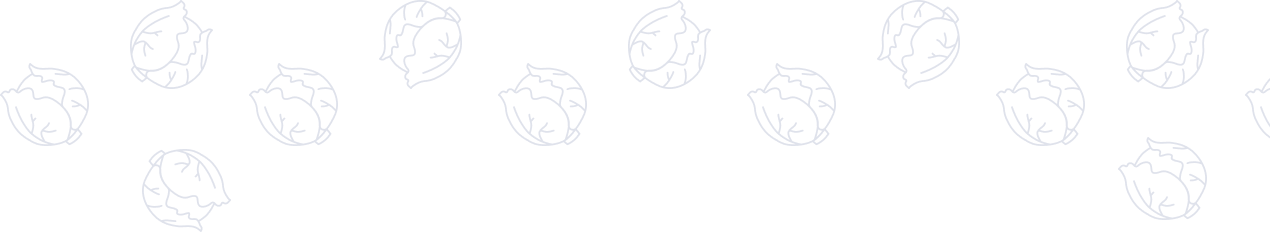
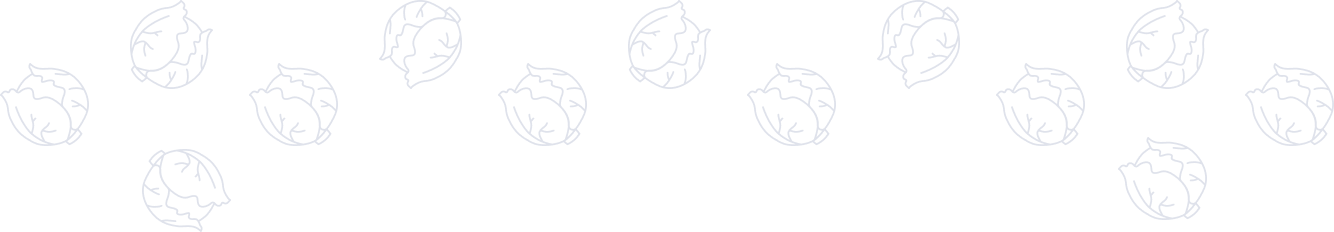
create page home and layout for all pages

diff --git a/src/styles/Background.styled.jsx b/src/styles/Background.styled.jsx
@@ -1,37 +1,53 @@
-import styled from 'styled-components';
+import { css, styled } from 'styled-components';
 import BgCabbage from '../images/home_bg.png';
 import CabbageUp from '../images/home_bg_mobile.png';
 import CabbageDown from '../images/single_cabbage.png';
 import DoubleCabbage from '../images/double_cabbage.png';
 
-export const Container = styled.main`
-  position: relative;
+import { above768px, above1280px } from './globalStyles';
+
+export const Container = styled.div`
+  position: absolute;
   overflow: hidden;
-  width: 100vw;
-  height: 100vh;
+  width: 100%;
+  height: 856px;
+  top: 0;
+  left: 0;
+  z-index: -99;
+  ${above768px(css`
+    height: 1024px;
+  `)}
+
+  ${above1280px(css`
+    height: 850px;
+  `)}
 `;
 export const UpCabbage = styled.div`
   background-image: url(${CabbageUp});
   position: absolute;
-  top: 15em;
-  right: -5%;
+  top: 160px;
+  right: -34px;
   width: 83px;
   height: 89px;
   background-repeat: no-repeat;
 
-  @media (min-width: 772px) {
+  ${above768px(css`
     width: 100%;
     height: 100%;
-    top: 7em;
+    top: 84px;
+    left: 10px;
     background-image: url(${BgCabbage});
-  }
-  @media (min-width: 1280px) {
-    left: 0;
-    right: 0;
+  `)}
+
+    ${above1280px(css`
+      top: 84.5px;
+      left: calc(100vw - 1270px);
+    `)}
   }
 `;
 export const DownCabbage = styled.div`
   background-image: url(${CabbageDown});
+  display: inline-block;
   position: absolute;
   bottom: 0;
   left: 3em;
@@ -40,13 +56,18 @@ export const DownCabbage = styled.div`
   background-repeat: no-repeat;
   z-index: 1;
 
-  @media (min-width: 772px) {
-    width: 100%;
+  ${above768px(css`
     height: 142px;
-    bottom: 4em;
-    left: 13%;
+    bottom: 56px;
+    left: 103px;
+    width: 183px;
     background-image: url(${DoubleCabbage});
-  }
+  `)}
+
+  ${above1280px(css`
+    left: 230px;
+    bottom: 50px;
+  `)}
 `;
 
 export const ImageWrapper = styled.div`
@@ -54,12 +75,12 @@ export const ImageWrapper = styled.div`
   top: 0;
   left: 0;
   width: 100%;
-  height: 40vh;
+  height: 342px;
   background-color: #f5f6fb;
   z-index: -1000;
   border-bottom-left-radius: 125px;
 
-  @media (min-width: 772px) {
+  ${above768px(css`
     height: 582px;
-  }
+  `)}
 `;

diff --git a/src/styles/Home/StyledHome.js b/src/styles/Home/StyledHome.js
@@ -1,0 +1,89 @@
+import { css, styled } from 'styled-components';
+
+import { colors, above768px, above1280px } from 'styles/globalStyles';
+
+const { textBasicGray } = colors;
+
+export const StyledHome = styled.div`
+  display: flex;
+  flex-direction: column;
+  align-items: center;
+  padding-top: 86px;
+
+  ${above768px(css`
+    padding-top: 80px;
+  `)}
+
+  ${above1280px(css`
+    flex-direction: row;
+    gap: 157px;
+    justify-content: center;
+    padding-left: 69px;
+    padding-top: 117px;
+    align-items: start;
+  `)}
+`;
+
+export const StyledWrapper = styled.div`
+  box-sizing: border-box;
+  display: flex;
+  flex-direction: column;
+  gap: 4px;
+  width: 280px;
+  padding: 0px;
+
+  ${above768px(css`
+    width: 426px;
+  `)}
+  ${above1280px(css`
+    gap: 0px;
+    width: 377px;
+    padding-top: 191px;
+  `)}
+`;
+
+export const StyledLogo = styled.svg`
+  width: 183px;
+  height: 46px;
+  ${above768px(css`
+    width: 306.52px;
+    height: 77.69px;
+  `)}
+  ${above1280px(css`
+    width: 377px;
+    height: 120px;
+  `)}
+`;
+
+export const StyledTitle = styled.h2`
+  margin: 0;
+  font-size: 13px;
+  font-weight: 700;
+  padding-left: 13px;
+  color: ${textBasicGray};
+
+  ${above768px(css`
+    font-size: 16px;
+    padding-left: 53.5px;
+  `)}
+
+  ${above1280px(css`
+    padding-left: 72px;
+  `)}
+`;
+
+export const LoginWrapper = styled.div`
+  display: flex;
+  justify-content: center;
+  padding-top: 50px;
+  padding-bottom: 105px;
+
+  ${above768px(css`
+    padding-top: 80px;
+    padding-bottom: 155px;
+  `)}
+
+  ${above1280px(css`
+    padding: 0;
+  `)}
+`;

diff --git a/src/components/App.jsx b/src/components/App.jsx
@@ -1,16 +1,17 @@
+import { Route, Routes } from 'react-router-dom';
+
+import Home from 'pages/Home';
+import Layout from 'components/Layout';
+
 export const App = () => {
   return (
-    <div
-      style={{
-        height: '100vh',
-        display: 'flex',
-        justifyContent: 'center',
-        alignItems: 'center',
-        fontSize: 40,
-        color: '#010101',
-      }}
-    >
-      React homework template
+    <div>
+      <Routes>
+        <Route path="/" element={<Layout />}>
+          <Route index element={<Home />} />
+          <Route path="*" element={<Home />} />
+        </Route>
+      </Routes>
     </div>
   );
 };

diff --git a/src/pages/Home.jsx b/src/pages/Home.jsx
@@ -1,0 +1,28 @@
+import {
+  LoginWrapper,
+  StyledHome,
+  StyledLogo,
+  StyledTitle,
+  StyledWrapper,
+} from 'styles/Home/StyledHome';
+
+import LoginForm from 'components/loginForm/LoginForm';
+import sprite from '../svg/icons_sprite.svg';
+
+const Home = () => {
+  return (
+    <StyledHome>
+      <StyledWrapper>
+        <StyledLogo>
+          <use xlinkHref={`${sprite}#kapusta-logo`} />
+        </StyledLogo>
+        <StyledTitle>SMART FINANCE</StyledTitle>
+      </StyledWrapper>
+      <LoginWrapper>
+        <LoginForm></LoginForm>
+      </LoginWrapper>
+    </StyledHome>
+  );
+};
+
+export default Home;

diff --git a/src/components/Header/Header.jsx b/src/components/Header/Header.jsx
@@ -1,8 +1,9 @@
-import { AuthorizedMenu } from './AuthorizedMenu';
 import { StyledWrapper } from '../../styles/Hearder/StyledHeader';
+
+import AuthorizedMenu from './AuthorizedMenu';
 import sprite from '../../svg/icons_sprite.svg';
 
-export const Header = () => {
+const Header = () => {
   const isLoggedIn = true;
   return (
     <StyledWrapper>
@@ -13,3 +14,5 @@ export const Header = () => {
     </StyledWrapper>
   );
 };
+
+export default Header;

diff --git a/src/index.js b/src/index.js
@@ -2,9 +2,12 @@ import React from 'react';
 import ReactDOM from 'react-dom/client';
 import { App } from 'components/App';
 import './index.css';
+import { BrowserRouter } from 'react-router-dom';
 
 ReactDOM.createRoot(document.getElementById('root')).render(
   <React.StrictMode>
-    <App />
+    <BrowserRouter basename="/kapusta-team-project">
+      <App />
+    </BrowserRouter>
   </React.StrictMode>
 );

diff --git a/src/components/Header/AuthorizedMenu.jsx b/src/components/Header/AuthorizedMenu.jsx
@@ -9,7 +9,7 @@ import {
 } from '../../styles/Hearder/StyledAuthMenu';
 import sprite from '../../svg/icons_sprite.svg';
 
-export const AuthorizedMenu = () => {
+const AuthorizedMenu = () => {
   const [isMobile, setIsMobile] = useState();
 
   useEffect(() => {
@@ -42,3 +42,5 @@ export const AuthorizedMenu = () => {
     </UserWrapper>
   );
 };
+
+export default AuthorizedMenu;

diff --git a/src/components/Layout.jsx b/src/components/Layout.jsx
@@ -1,0 +1,16 @@
+import { Outlet } from 'react-router-dom';
+
+import CabbagesBg from 'components/Background/Background';
+import Header from 'components/Header/Header';
+
+const Layout = () => {
+  return (
+    <>
+      <Header></Header>
+      <Outlet></Outlet>
+      <CabbagesBg></CabbagesBg>
+    </>
+  );
+};
+
+export default Layout;

diff --git a/src/styles/Hearder/StyledHeader.js b/src/styles/Hearder/StyledHeader.js
@@ -9,6 +9,7 @@ export const StyledWrapper = styled.div`
   display: flex;
   justify-content: space-between;
   align-items: center;
+  background-color: #fff;
 
   ${above768px`
     padding-left: 32px;
